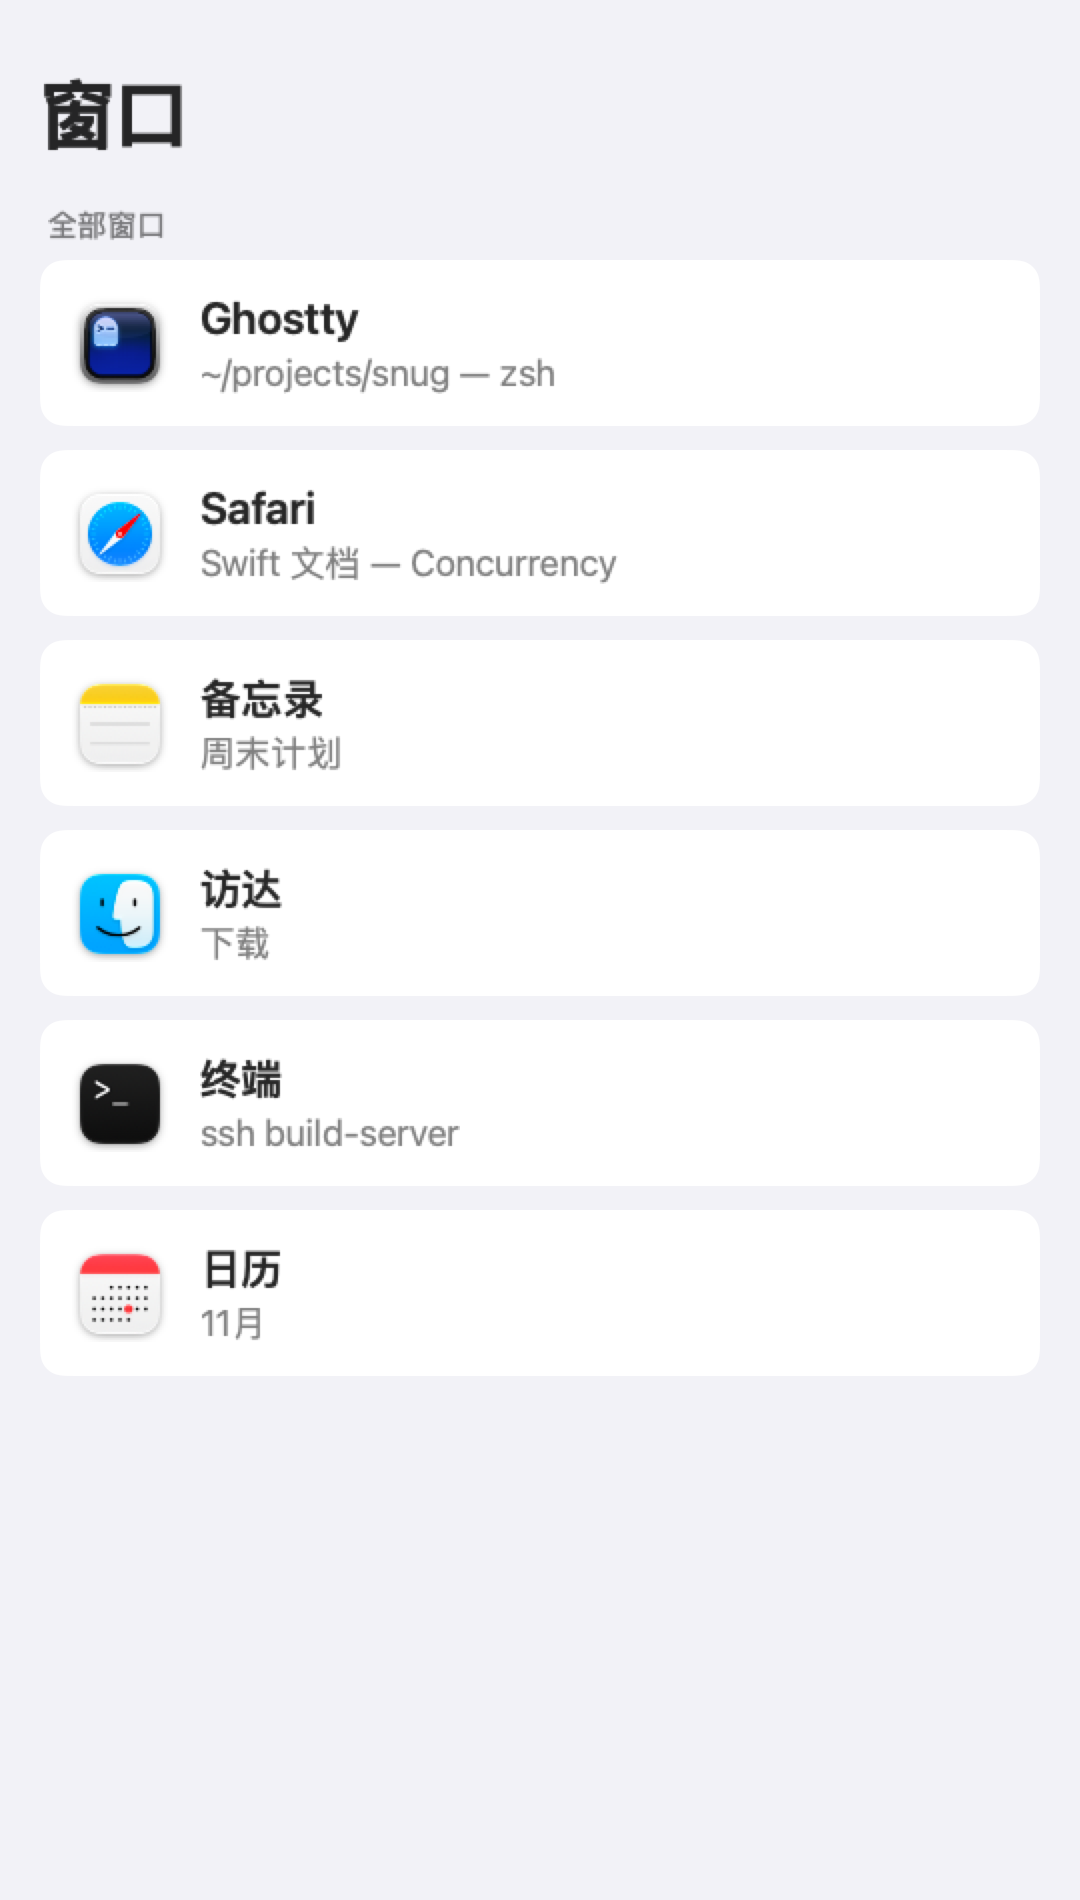
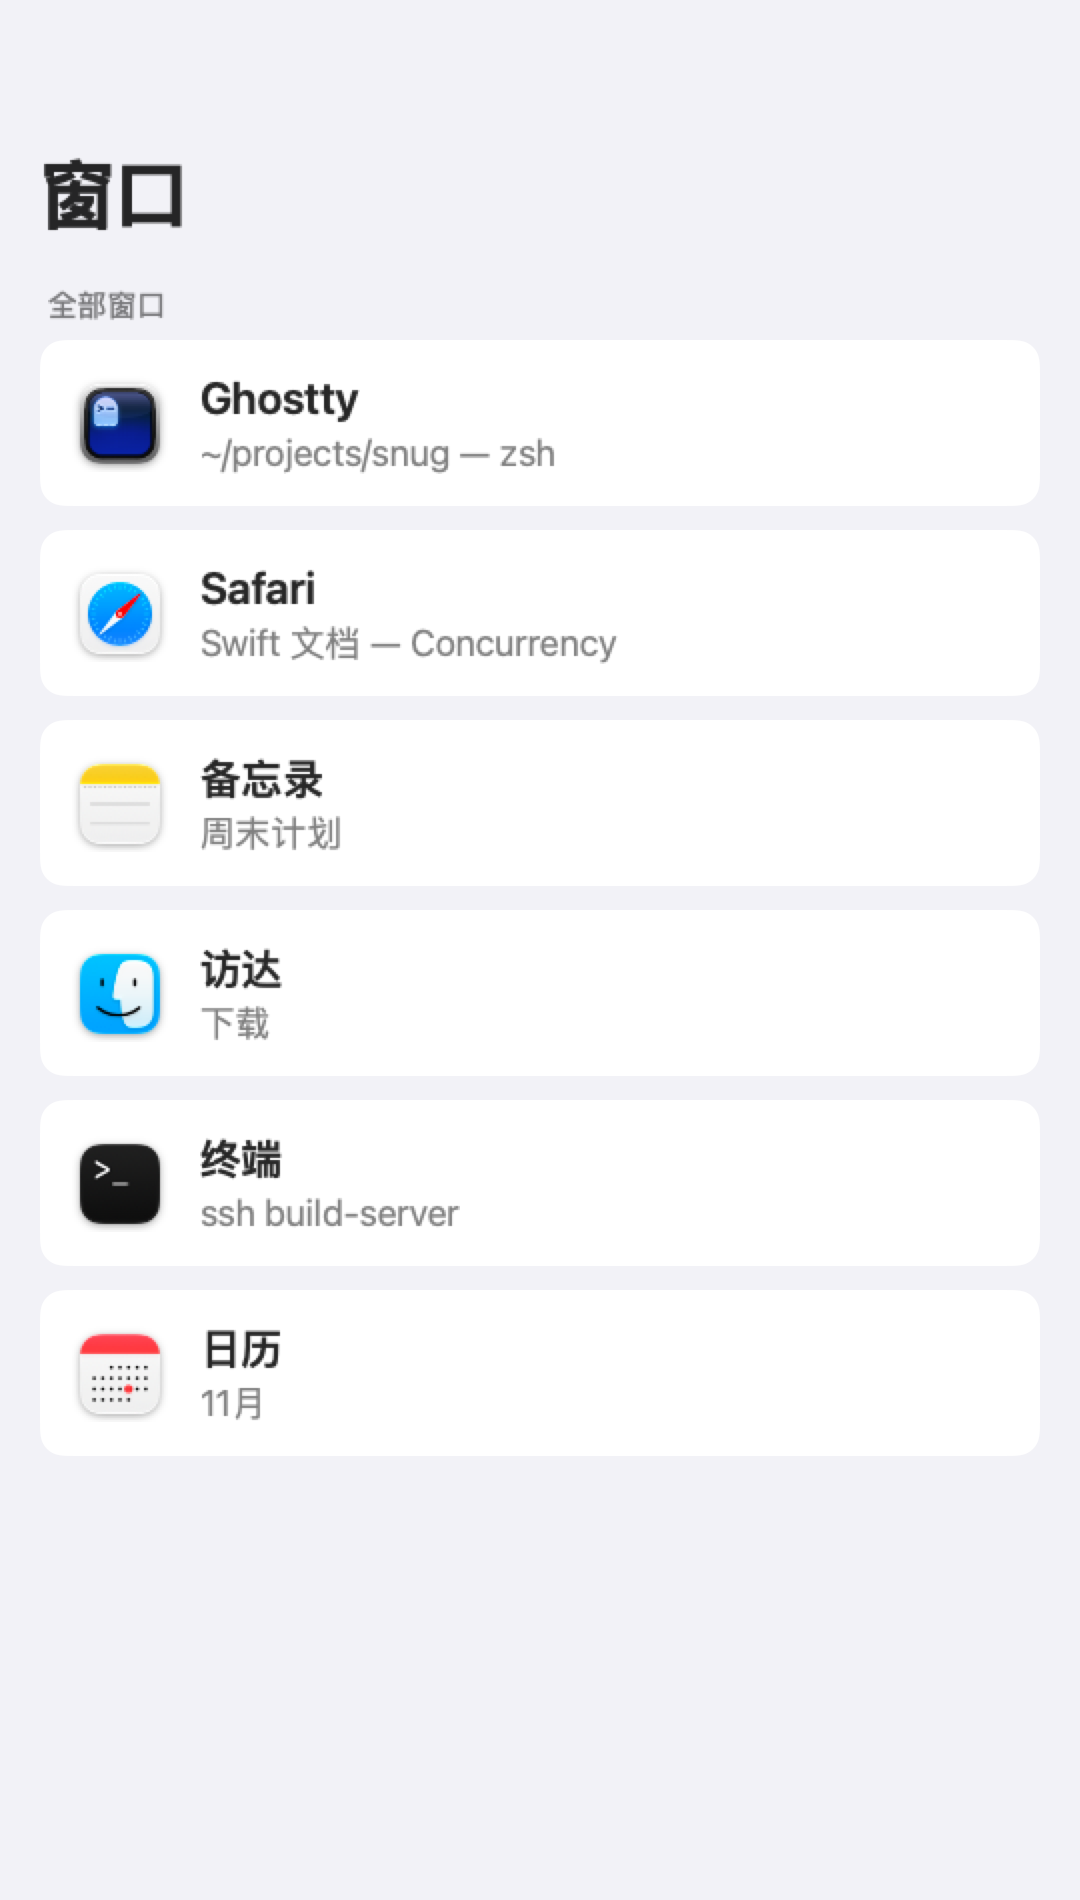
收尾清理：README 配图换成改版后的界面；测试小工具归位；注明安装等待与退出收尾超时的约束
- README 手机屏两张配图还是改版前的（卡片上有右箭头、没有返回键），设置页配图的权限名也换成系统里的叫法；用法第 3 条补上返回键和「正在打开」
- scripts/snug install 最多等 20 秒必须长过 Snug 的退出收尾上限（15 秒），两边都写上，免得改一边忘了另一边
- 删掉没人传的 now 参数（RestoreRecord.pending、JSONFile.loadOrQuarantine）
- 测试：TempDir 单独成文件，Rig 也用它；at、table 和 t0 放在一起（原先两个文件各抄一份）

diff --git a/Tests/SnugCoreTests/PhoneScreen/PhoneDeskTests.swift b/Tests/SnugCoreTests/PhoneScreen/PhoneDeskTests.swift
@@ -18,7 +18,7 @@ private let phoneArea = CGRect(x: 2000, y: 25, width: 540, height: 897)
 /// 一套假系统 + 一个 PhoneDesk。每个用例一个临时数据目录
 @MainActor
 private final class Rig {
-    let dir: URL
+    private let tmp: TempDir
     let paths: SnugPaths
     let journal = Journal()
     let displays: FakeDisplays
@@ -27,8 +27,9 @@ private final class Rig {
     let desk: PhoneDesk
 
     init(dataDirectory: URL? = nil) throws {
-        dir = FileManager.default.temporaryDirectory.appendingPathComponent("snug-desk-\(UUID().uuidString)")
-        try FileManager.default.createDirectory(at: dir, withIntermediateDirectories: true)
+        let tmp = try TempDir()
+        let dir = tmp.url
+        self.tmp = tmp
         paths = SnugPaths(dataDirectory: dataDirectory ?? dir, logFile: dir.appendingPathComponent("Snug.log"))
         displays = FakeDisplays(journal: journal)
         windows = FakeWindows(journal: journal, ledger: paths.phoneRecord)
@@ -40,8 +41,6 @@ private final class Rig {
         let timeline = timeline
         displays.clock = { timeline.now }
     }
-
-    deinit { try? FileManager.default.removeItem(at: dir) }
 
     var record: PhoneRecord? { RestoreRecord<PhoneRecord>(url: paths.phoneRecord).pending() }
 

diff --git a/Sources/SnugCore/Persistence/JSONFile.swift b/Sources/SnugCore/Persistence/JSONFile.swift
@@ -58,7 +58,7 @@ public struct JSONFile<Value: Codable>: Sendable {
 
     /// 调用方最常用的读法：不存在返回 nil；损坏时隔离原文件、记 error，再返回 nil 让调用方用默认值。
     /// 隔离失败也记 error（原文件留在原处，下次还会再试），绝不用默认值覆盖原内容
-    public func loadOrQuarantine(now: Date = Date()) -> Value? {
+    public func loadOrQuarantine() -> Value? {
         switch load() {
         case .missing:
             return nil
@@ -66,7 +66,7 @@ public struct JSONFile<Value: Codable>: Sendable {
             return value
         case .corrupt(let error):
             do {
-                let moved = try quarantine(now: now)
+                let moved = try quarantine()
                 Log.error("\(url.lastPathComponent) 已损坏（\(error)），原文件改名为 \(moved.lastPathComponent)，改用默认值")
             } catch let moveError {
                 Log.error("\(url.lastPathComponent) 已损坏（\(error)），改名隔离也失败（\(moveError)），本次改用默认值")

diff --git a/Tests/SnugCoreTests/Session/ConnectionTrackerTests.swift b/Tests/SnugCoreTests/Session/ConnectionTrackerTests.swift
@@ -3,11 +3,9 @@ import Testing
 @testable import SnugCore
 
 /// 时间都写成「距 t0 的秒数」，断言里的数字能直接对上 1.5s 防抖、5s 静默期、60s 上限
-private func at(_ s: Double) -> Date { t0.addingTimeInterval(s) }
 
 private let none = UUSignals(overlayVisible: false, controllers: [], captureActive: false)
 private let overlay = UUSignals(overlayVisible: true, controllers: nil, captureActive: nil)
-private func table(_ names: String...) -> UUSignals { UUSignals(overlayVisible: false, controllers: names, captureActive: nil) }
 private func capture(_ on: Bool?) -> UUSignals { UUSignals(overlayVisible: false, controllers: nil, captureActive: on) }
 /// 推流还在，表格读得到、明确没人
 private func captureButNobody(_ on: Bool?) -> UUSignals { UUSignals(overlayVisible: false, controllers: [], captureActive: on) }

diff --git a/Tests/SnugCoreTests/Session/SessionTests.swift b/Tests/SnugCoreTests/Session/SessionTests.swift
@@ -2,7 +2,6 @@ import Foundation
 import Testing
 @testable import SnugCore
 
-private func at(_ s: Double) -> Date { t0.addingTimeInterval(s) }
 
 @Suite("会话 SessionEpisode")
 struct SessionEpisodeTests {
@@ -83,7 +82,6 @@ struct RemoteSessionTests {
 
 @Suite("要不要手机屏 RemoteSession.wantsPhoneScreen")
 struct PhoneDemandTests {
-    private func table(_ names: String...) -> UUSignals { UUSignals(overlayVisible: false, controllers: names, captureActive: nil) }
     private let overlayOnly = UUSignals(overlayVisible: true, controllers: [], captureActive: nil)
     private let absent = UUSignals(overlayVisible: false, controllers: [], captureActive: nil)
 

diff --git a/Tests/SnugCoreTests/Persistence/PersistenceTests.swift b/Tests/SnugCoreTests/Persistence/PersistenceTests.swift
@@ -2,16 +2,6 @@ import Foundation
 import Testing
 @testable import SnugCore
 
-/// 每个用例一个独立临时目录，用完删掉
-struct TempDir: ~Copyable {
-    let url: URL
-    init() throws {
-        url = FileManager.default.temporaryDirectory.appendingPathComponent("snug-tests-\(UUID().uuidString)")
-        try FileManager.default.createDirectory(at: url, withIntermediateDirectories: true)
-    }
-    deinit { try? FileManager.default.removeItem(at: url) }
-}
-
 private struct Sample: Codable, Equatable { var name: String; var count: Int }
 
 @Suite("持久化")

diff --git a/Sources/SnugCore/Persistence/RestoreRecord.swift b/Sources/SnugCore/Persistence/RestoreRecord.swift
@@ -8,7 +8,7 @@ public struct RestoreRecord<Value: Codable>: Sendable {
     public init(url: URL) { file = JSONFile(url: url) }
 
     /// 有待还原的记录就返回；损坏的记录隔离并记 error，按「没有记录」处理
-    public func pending(now: Date = Date()) -> Value? { file.loadOrQuarantine(now: now) }
+    public func pending() -> Value? { file.loadOrQuarantine() }
 
     /// 先记账：写盘失败就抛错，调用方必须放弃这次改动
     public func record(_ value: Value) throws { try file.save(value) }

diff --git a/Tests/SnugCoreTests/Support/SessionHelpers.swift b/Tests/SnugCoreTests/Support/SessionHelpers.swift
@@ -1,0 +1,11 @@
+import Foundation
+@testable import SnugCore
+
+/// 会话类测试的时间起点：断言里写「距 t0 的秒数」，数字能直接对上防抖、静默期这些常量
+let t0 = Date(timeIntervalSinceReferenceDate: 800_000_000)
+
+/// 距 t0 多少秒
+func at(_ s: Double) -> Date { t0.addingTimeInterval(s) }
+
+/// 只有控制端表格的观测（覆盖窗口不在、推流未知）
+func table(_ names: String...) -> UUSignals { UUSignals(overlayVisible: false, controllers: names, captureActive: nil) }

diff --git a/Tests/SnugCoreTests/Support/TempDir.swift b/Tests/SnugCoreTests/Support/TempDir.swift
@@ -1,0 +1,11 @@
+import Foundation
+
+/// 每个用例一个独立临时目录，用完删掉
+struct TempDir: ~Copyable {
+    let url: URL
+    init() throws {
+        url = FileManager.default.temporaryDirectory.appendingPathComponent("snug-tests-\(UUID().uuidString)")
+        try FileManager.default.createDirectory(at: url, withIntermediateDirectories: true)
+    }
+    deinit { try? FileManager.default.removeItem(at: url) }
+}

diff --git a/Sources/Snug/App/QuitFlow.swift b/Sources/Snug/App/QuitFlow.swift
@@ -8,6 +8,7 @@ import SnugCore
 
 @MainActor
 final class QuitFlow {
+    /// scripts/snug install 用 SIGTERM 退出 Snug 后最多等 20 秒，改这个数要一起看那边
     static let userQuitTimeout: TimeInterval = 15
     static let systemQuitTimeout: TimeInterval = 4
 

diff --git a/README.md b/README.md
@@ -28,7 +28,7 @@ Snug 装在**被远程的 Mac** 上，之后不用再管。手机上只需要 UU
 
 1. **切到「Snug 手机屏」**：手机连上后，UU远程 的屏幕列表里多出这一块竖屏（2 倍高清）。不切过去，一切和原版 UU远程 一样。
 2. **点选窗口**：手机屏上是 Snug 的窗口列表，Mac 上的窗口都在（不管在哪块屏、哪个桌面，全屏、最小化的也在）。点一个，它就铺满手机屏，终端、编辑器的字号自动放大。
-3. **随时切换**：底部小横条点一下或上滑，回到列表；换窗口时旧窗口自动回原位、字号缩回。列表里还能调字号、还原。
+3. **随时切换**：底部小横条点一下或上滑，回到列表；左上角「‹ App 名」回到放着的窗口。换窗口时旧窗口自动回原位、字号缩回，切换时屏上写明正在打开哪个窗口。列表里还能调字号、还原。
 4. **断开即还原**：远程结束，窗口回原位、字号缩回、手机屏移除。
 
 手机屏上的手势：
